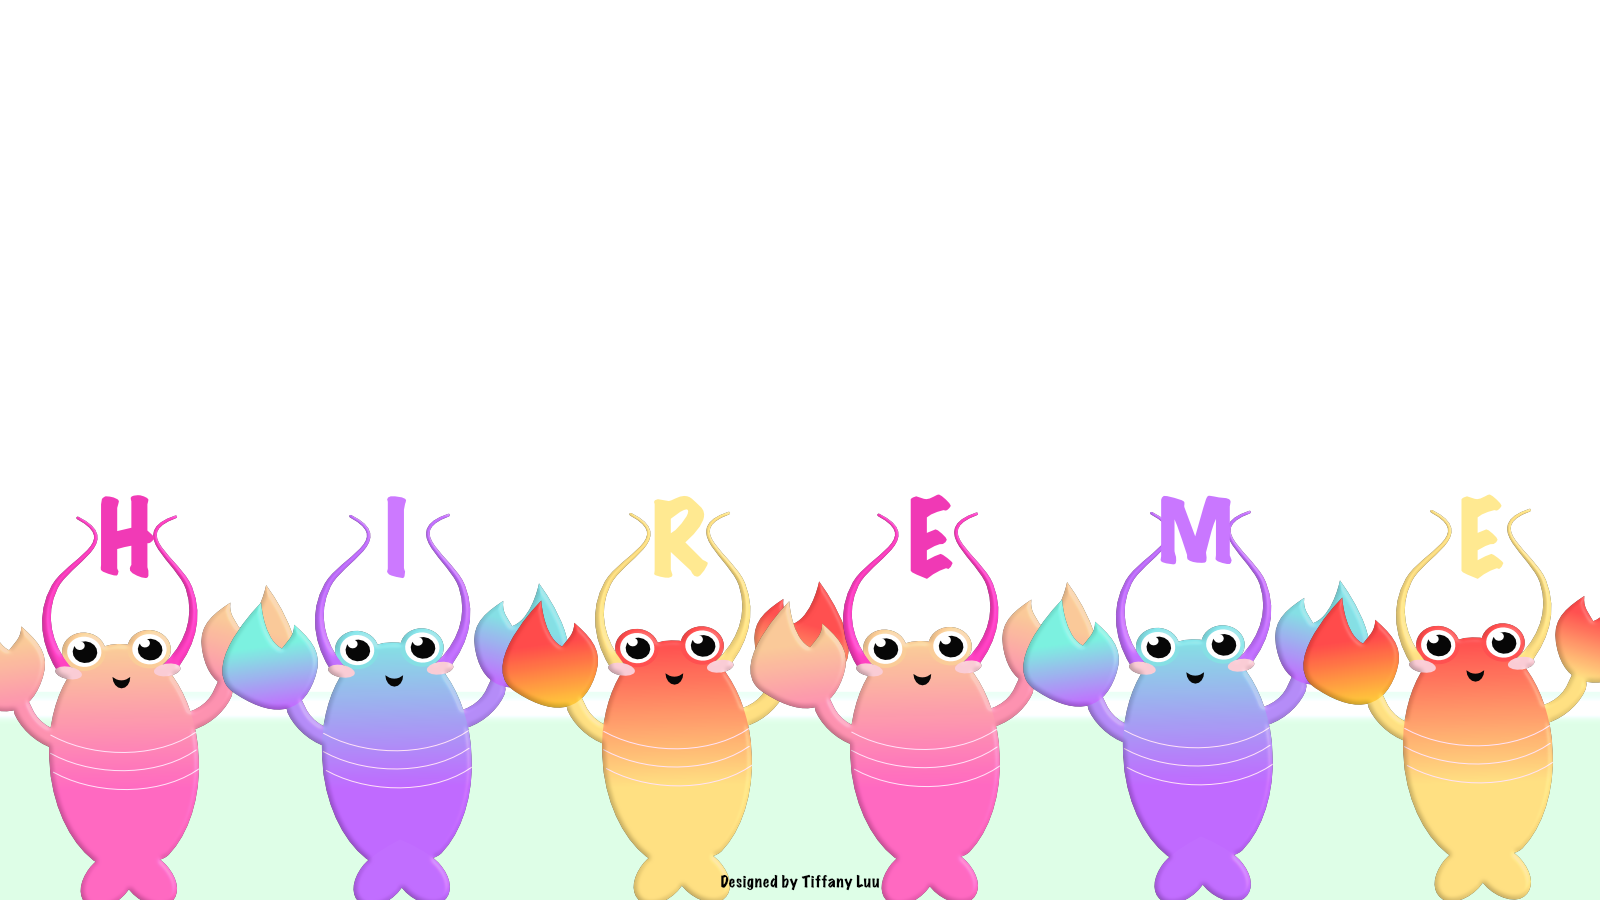
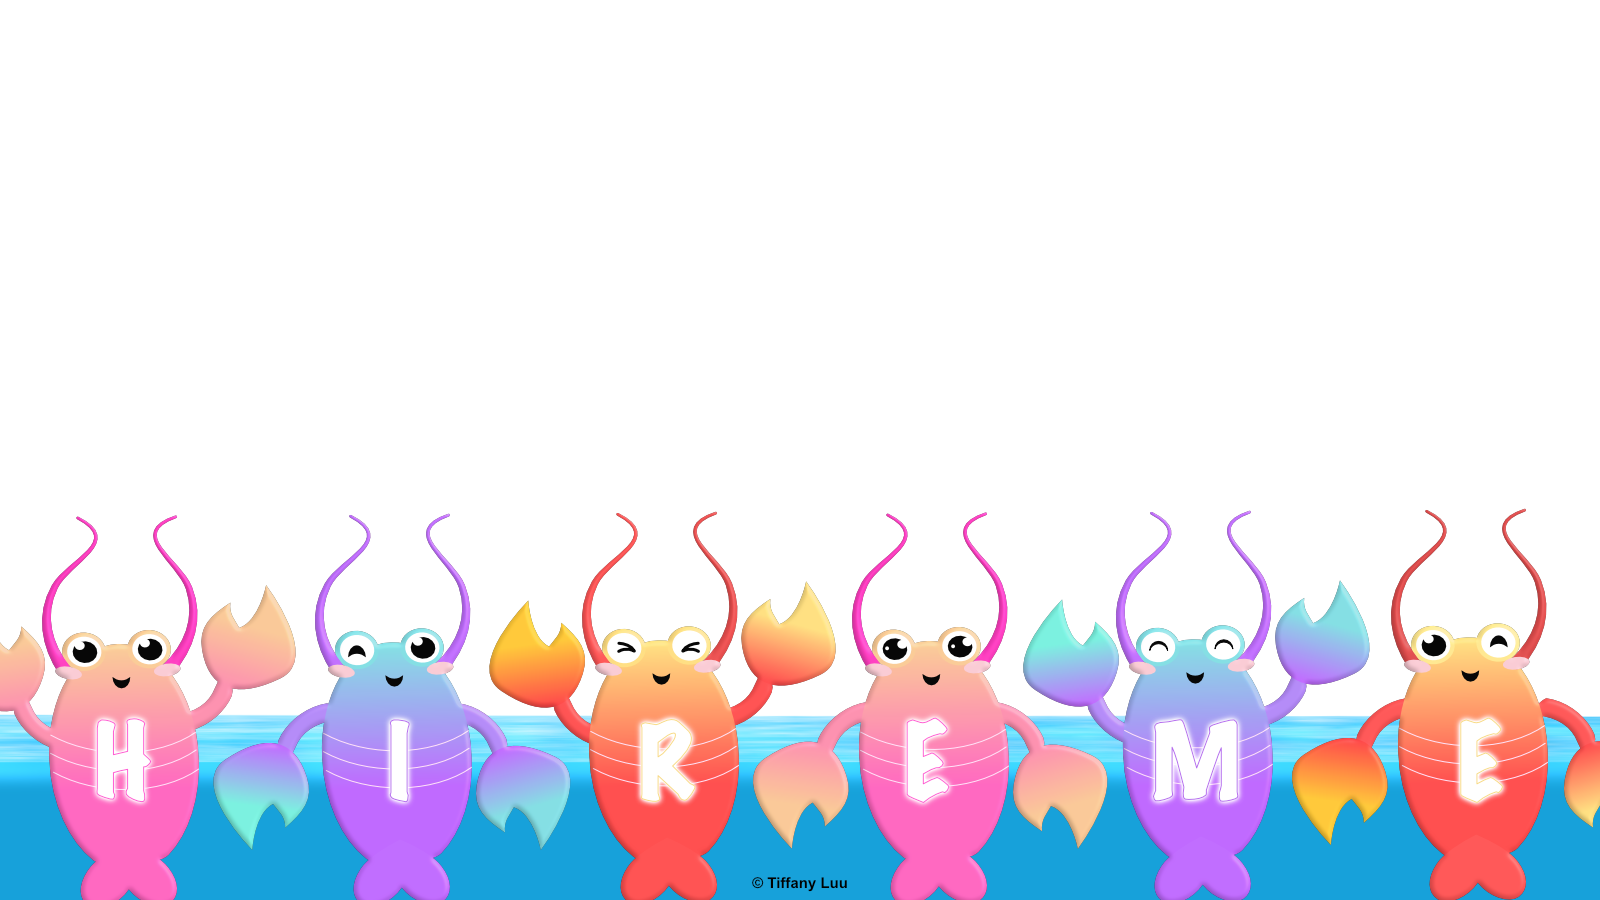
added image and changed background

diff --git a/src/interns/tiffany/index.html b/src/interns/tiffany/index.html
@@ -5,34 +5,38 @@
     <meta http-equiv="X-UA-Compatible" content="IE=edge" />
     <meta name="viewport" content="width=device-width, initial-scale=1.0" />
     <title>Document</title>
-    <link rel="preconnect" href="https://fonts.gstatic.com">
-    <link href="https://fonts.googleapis.com/css2?family=Karla&display=swap" rel="stylesheet">
+    <link rel="preconnect" href="https://fonts.gstatic.com" />
+    <link href="https://fonts.googleapis.com/css2?family=Karla&display=swap" rel="stylesheet" />
     <link rel="stylesheet" href="style.css" />
   </head>
   <body>
     <main>
       <div class="greeting">
-        <h1>Hi, I'm Tiffany!</h1>
+        <img src="envelope.png" alt="Envelope" />
       </div>
-      <div class="about-me"> 
+      <div class="about-me">
         <p>
-          I'm a gal that loves learning, growing, and challenging myself everyday. I knew if I were to enter the field
-          of software engineering that I would be doing exactly that while also getting to exercise my problem solving
-          skills and creativity. I believe in the power of technology and really want to use it to make a difference in
-          people's lives so they can focus on what really matters!
+          Nice to meet you, I'm Tiffany! I'm a gal that loves to learn, challenge myself, and step out of my comfort
+          zone. I didn't feel like I could do that in my previous field, biology, in fact I aced my way throughout
+          college. I knew if I were to pursue software
+          engineering I would be able to apply myself and learn new things my entire career, and that's challenge I gladly accept!
+          Additionally, I absolutely LOVE how I can incorporate my passion for art and design with programming.
+          <span
+            >In fact, all the images you see on this page were designed by me (of course with inspiration from Lob's own
+            lobster) and I had a blast doing so!</span
+          >
         </p>
 
         <p>
           I'm excited to apply for a software engineering internship at Lob and would love the chance to collaborate
-          with the innovative problem solvers there. I am interested in building intuitive and user friendly
-          interfaces with Lob and would like to develop my React skills in a real world setting. The intersection of
-          design and engineering interests me greatly as well (I created the background image myself inspired by Lob's own lobster!) and thus I would love to participate in creating wireframes and mockups.
+          with the innovative problem solvers there. On the frontend, I would love to take part in both design and engineering -- that includes
+          helping create wireframes and mockups to create beautiful, intuitive, user friendly interfaces and using my technical skills to actually
+          code it out. In particular, I would like to create highly dynamic, interactive pages to expand my knowledge of React.
         </p>
         <p>
-          Additionally, I would like to learn how to create scalable systems that can accomodate a lot of requests at
-          once, which I'm sure Lob knows a lot about. Most of the projects I've made are small, so I haven't had to
-          worry about that, but it would be a great learning experience so that in the future I can implement
-          scalability in upcoming projects. I'm looking forward to hearing back from Lob!
+          On the backend, I would like to learn more about Lob's APIs and how to create scalable systems that can accomodate a lot of requests at
+          once. Most of the projects I've made are small, so I didn't feel the need to scale them but doing so would be
+          a great learning experience and allow me to understand real world applications. I'm looking forward to hearing back from Lob!
         </p>
       </div>
     </main>

diff --git a/src/interns/tiffany/style.css b/src/interns/tiffany/style.css
@@ -4,13 +4,23 @@
     box-sizing: border-box;
 }
 
-main{
-    font-family: 'Karla', sans-serif;
+body {
     min-height: 100vh;
     background: url('./lob_bg.png') no-repeat center center/cover;
+
+}
+
+span {
+    color: #0099D7;
+}
+
+main{
+    font-family: 'Karla', sans-serif;
     display: flex;
-    padding: 100px;
+    gap: 20px;
+    padding: 50px 100px;
     animation: fadeIn 2s;
+
 }
 
 main > div {
@@ -25,10 +35,17 @@ main > div {
     animation: fadeRight 2s;
 }
 
+.greeting img{
+    width: 100%;
+}
+
+
 .about-me p{
     text-indent: 50px;
     color:#6c6b6b;
+    margin-bottom: 10px;
     animation: fadeLeft 2s;
+    /* font-size: 18px; */
 }
 
 @keyframes fadeRight{
@@ -50,3 +67,9 @@ main > div {
     }
 }
 
+
+@media screen and (max-width:1000px){
+    main {
+        flex-direction: column;
+    }
+}
